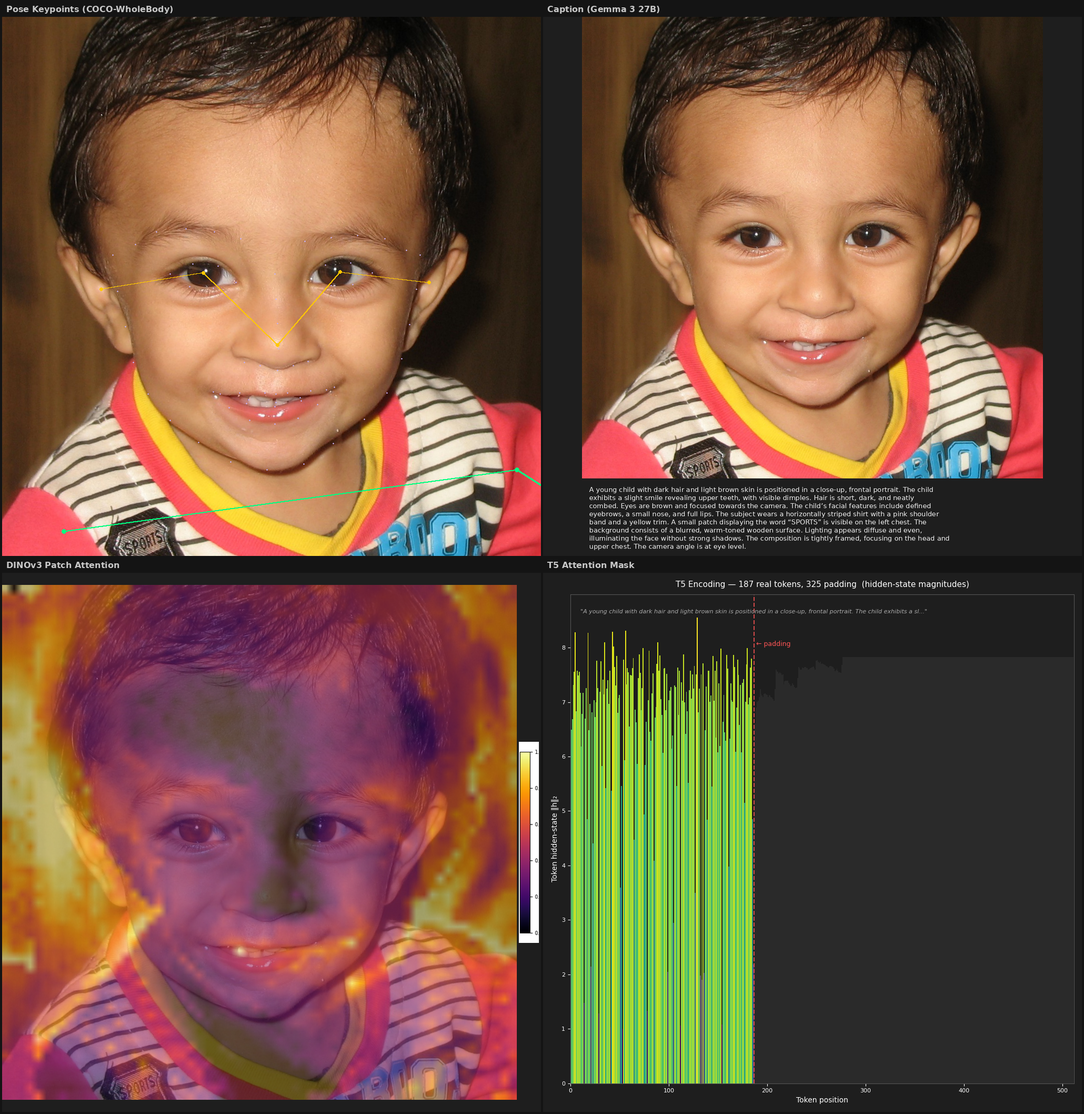
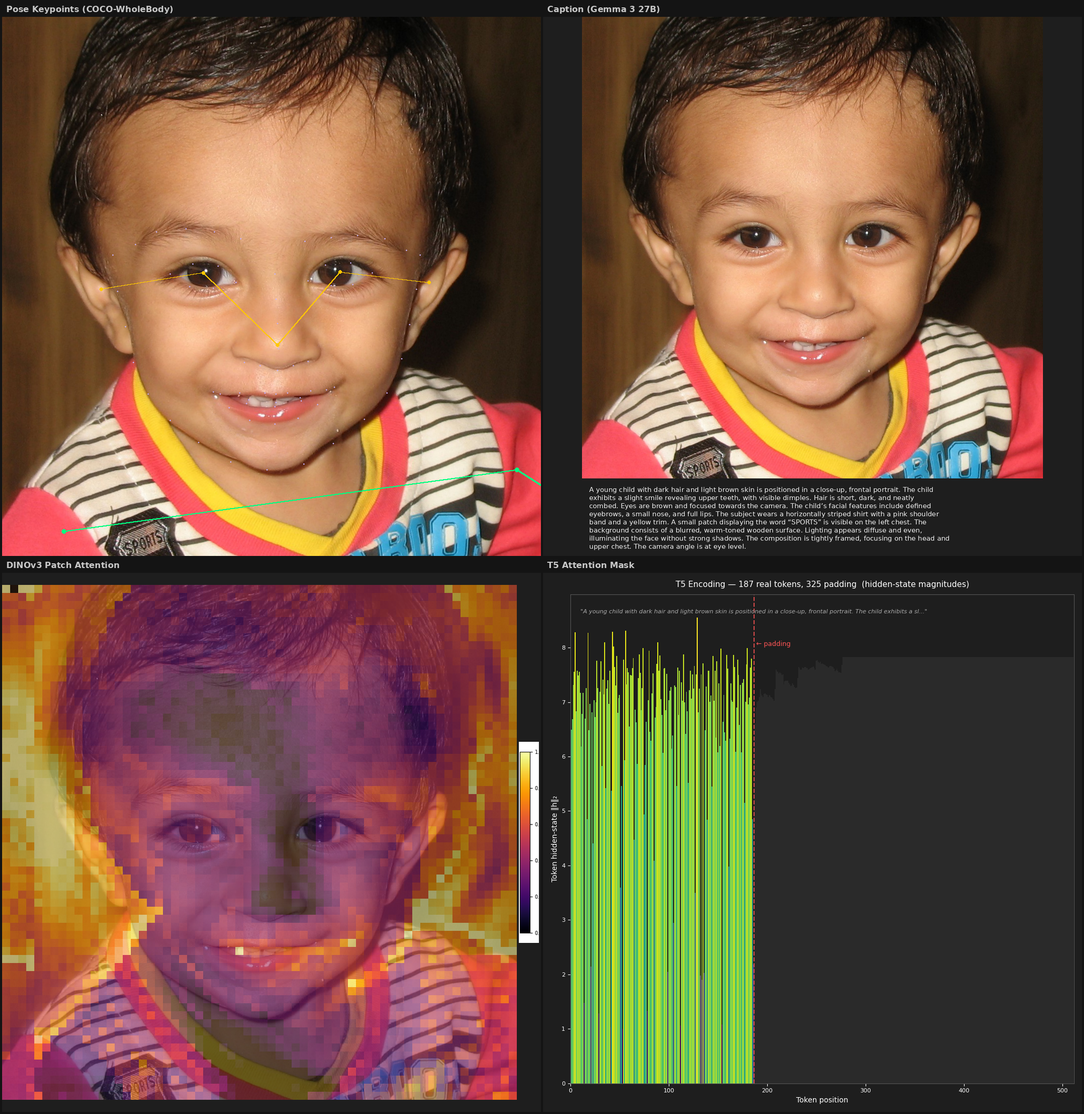
Fix DINOv3 heatmap spatial alignment
Replace BILINEAR upscale with block repetition (np.repeat) so each
patch maps exactly to its 16×16 pixel region without interpolation
offset.

diff --git a/scripts/visualize_example.py b/scripts/visualize_example.py
@@ -178,10 +178,19 @@ def render_dino_heatmap(img: Image.Image, cls_emb: np.ndarray, patch_emb: np.nda
     hi = np.percentile(heatmap, 98)
     heatmap = np.clip((heatmap - lo) / (hi - lo + 1e-8), 0, 1)
 
-    # Apply colormap and resize to image dimensions
+    # Expand heatmap to image dimensions using block repetition so each
+    # patch maps exactly to its 16×16 pixel region (no interpolation shift).
+    patch_h = img.height // grid_size
+    patch_w = img.width // grid_size
     colored = cm.inferno(heatmap)[:, :, :3]
     colored_uint8 = (colored * 255).astype(np.uint8)
-    heatmap_img = Image.fromarray(colored_uint8).resize((img.width, img.height), Image.BILINEAR)
+    # Repeat each row/col by the patch size
+    full = np.repeat(np.repeat(colored_uint8, patch_h, axis=0), patch_w, axis=1)
+    # Handle rounding remainder (e.g. 1024 not perfectly divisible)
+    if full.shape[0] != img.height or full.shape[1] != img.width:
+        heatmap_img = Image.fromarray(full).resize((img.width, img.height), Image.NEAREST)
+    else:
+        heatmap_img = Image.fromarray(full)
 
     # Stronger blend so the heatmap reads clearly
     overlay = Image.blend(img.convert("RGB"), heatmap_img, alpha=0.6)
